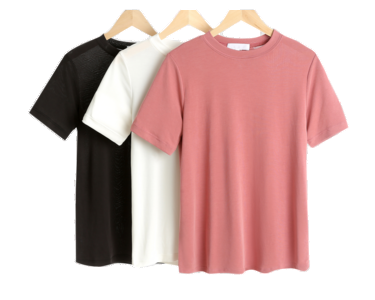
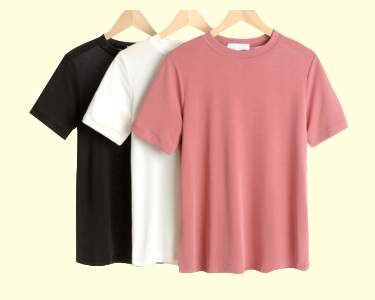
nothing

diff --git a/styles.css b/styles.css
@@ -438,19 +438,18 @@ font-weight: 300px;
 
 #buy1get1 .buy1get1_box2{
   
-  background-image: url("Assets/wallets.png");
+  background-image: url("Assets/tshirt.png");
   background-color: transparent;
   flex-direction: column;
   justify-content: center;
   align-items: flex-start;
   height: 40vh;
-  width: 42.6%;
-  background-position: top 190% right 25%  ;
+  width: 35%;
+  background-position: top 38% right 0;
   padding:  50px;
   text-align: start;
   margin-left: -50px;
   min-width: 20%;
-  text-decoration: none;
 }
 #buy1get1 .buy1get1_box2 a{
   text-decoration: none;
@@ -487,12 +486,12 @@ color:black;
   justify-content: center;
   align-items: flex-start;
   height: 40vh;
-  width: 2%;
-  background-position: top 170% right 9%;
+  width: 35%;
+  background-position: top 38% right 0;
   padding:  50px;
-  text-align: start;
-  min-width: 30%;
-  text-align: left;  
+  text-align: right;
+  margin-left: -50px;
+  min-width: 20%; 
   
 }
 #buy1get1 .buy1get1_box3 a{

diff --git a/index.html b/index.html
@@ -72,7 +72,7 @@
 
             </style>
      </head>
-    <body bgcolor="#F5F5DC">
+    <body>
                
         
             <!--Header Section-->
@@ -454,7 +454,7 @@
 
                  <div class="buy1get1_box2" >
                     
-                    <a href="#"><h4><b>Wallets</b></h4></a>
+                    <a href="#"><h4><b>T Shirts</b></h4></a>
                         
                 </div>
 

diff --git a/shop.html b/shop.html
@@ -5,7 +5,7 @@
       
         <link rel="stylesheet" href="styles.css">
 </head>
-<body bgcolor="#F5F5DC">
+<body>
      <!--Header Section-->
 
      <section id="top">
